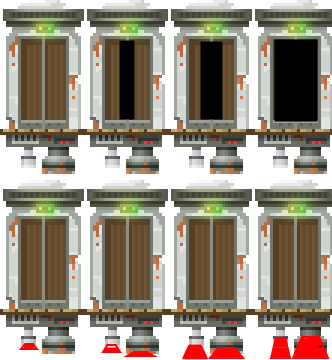
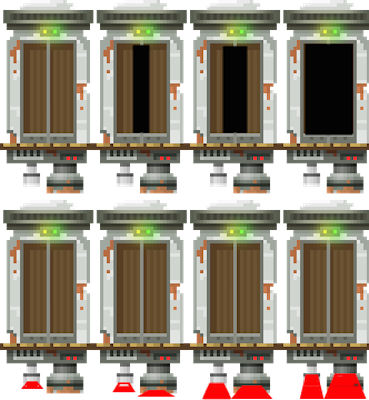
made content loader
made building sprite and changed elevator logic to move to nearest floor

diff --git a/MyFirstGame/MyFirstGame.Shared/Sprites/Elevator.cs b/MyFirstGame/MyFirstGame.Shared/Sprites/Elevator.cs
@@ -12,7 +12,7 @@ namespace MyFirstGame.Sprites
     /// <summary>
     /// Initializes a test animated sprite
     /// </summary>
-    public class TestAnimatedSprite : BaseAnimatedSprite
+    public class Elevator : BaseAnimatedSprite
     {
         /// <summary>
         /// Animation names
@@ -34,25 +34,34 @@ namespace MyFirstGame.Sprites
 
         public float deacceleratePerSecond = 0.95f;
 
-        public float maxSpeed = 2;
+		public float acceleration = 3;
+
+		public float maxSpeed = 10;
 
         public float cutOff = 0.2f;
+
+		public Keys currentKey;
+
+		//closest floor in moving direction
+		public float destinationY;
+
+		public Building currentBuilding;
 
         /// <summary>
         /// Initializes a new instance of the test animated sprite
         /// </summary>
-        public TestAnimatedSprite():
-            base(CurrentGame.content.Load<Texture2D>("Images\\testelevator.png"),
+        public Elevator():
+		base(ContentLoader.GetTexture("testelevator.png"),
             //new Vector2(CurrentGame.graphics.GraphicsDevice.Viewport.TitleSafeArea.X, CurrentGame.graphics.GraphicsDevice.Viewport.TitleSafeArea.Y + CurrentGame.graphics.GraphicsDevice.Viewport.TitleSafeArea.Height / 2),
             new Vector2(200, 200),
             4, 2)
         {
             //this.addAnimation(0, 0, 7, 0, 0.1f, AnimationNames.Default, true);
             this.addAnimation(0, 0, 0, 0, 1f, AnimationNames.Still);
-            this.addAnimation(0, 0, 3, 0, 0.2f, AnimationNames.Opening, false, false);
-            this.addAnimation(3, 0, 0, 0, 0.2f, AnimationNames.Closing, false, false);
+            this.addAnimation(0, 0, 3, 0, 0.1f, AnimationNames.Opening, false, false);
+            this.addAnimation(3, 0, 0, 0, 0.1f, AnimationNames.Closing, false, false);
             this.addAnimation(3, 0, 3, 0, 1f, AnimationNames.Opened);
-            this.addAnimation(0, 1, 3, 1, 0.15f, AnimationNames.Accelerating, false, false);
+            this.addAnimation(0, 1, 3, 1, 0.1f, AnimationNames.Accelerating, false, false);
             this.addAnimation(3, 1, 0, 1, 0.15f, AnimationNames.Deaccelerating, false, false);
             this.addAnimation(3, 1, 3, 1, 0.15f, AnimationNames.Moving);
             this.currentAnimation = this.animations[AnimationNames.Still];
@@ -105,9 +114,10 @@ namespace MyFirstGame.Sprites
 
             if (InputState.IsKeyDown(Keys.Up))
             {
+				currentKey = Keys.Up;
                 if (this.state == AnimationNames.Accelerating)
                 {
-                    this.currentSpeed = this.currentSpeed + (float)gameTime.ElapsedGameTime.TotalSeconds;
+					this.currentSpeed = this.currentSpeed + (float)gameTime.ElapsedGameTime.TotalSeconds*acceleration;
                     if (this.currentSpeed > this.maxSpeed)
                         this.currentSpeed = this.maxSpeed;
                 }
@@ -127,9 +137,10 @@ namespace MyFirstGame.Sprites
 
             if (InputState.IsKeyDown(Keys.Down))
             {
+				currentKey = Keys.Down;
                 if (this.state == AnimationNames.Accelerating)
                 {
-                    this.currentSpeed = this.currentSpeed - (float)gameTime.ElapsedGameTime.TotalSeconds;
+					this.currentSpeed = this.currentSpeed - (float)gameTime.ElapsedGameTime.TotalSeconds*acceleration;
                     if (this.currentSpeed < -this.maxSpeed)
                         this.currentSpeed = -this.maxSpeed;
                 }
@@ -146,24 +157,46 @@ namespace MyFirstGame.Sprites
                     this.SetAnimation(AnimationNames.Accelerating);
                 }
             }
-
+			Console.WriteLine (this.state);
 			if (InputState.AreKeysUp(Keys.Up, Keys.Down))
             {
-                this.currentSpeed = this.currentSpeed * this.deacceleratePerSecond;
-                if ((this.currentSpeed < this.cutOff && this.currentSpeed > 0) || (this.currentSpeed > -this.cutOff && this.currentSpeed < 0))
-                    this.currentSpeed = 0;
-
+                
                 if (this.state == AnimationNames.Accelerating || this.state == AnimationNames.Moving)
                 {
                     this.SetAnimation(AnimationNames.Deaccelerating);
-                    this.state = AnimationNames.Deaccelerating;
+					if (this.currentSpeed != 0) {
+						float closestFloor = float.MaxValue, smallestDist = float.MaxValue;
+						for (int i = 0; i < currentBuilding.floors.Length; i++) {
+							if (Math.Sign (currentBuilding.floors [i] - position.Y) == -1 *Math.Sign (currentSpeed) &&
+								Math.Abs (currentBuilding.floors [i] - position.Y) < smallestDist) {
+								smallestDist = Math.Abs (currentBuilding.floors [i] - position.Y);
+								closestFloor = currentBuilding.floors [i];
+							}
+						}
+						destinationY = closestFloor;
+					}
+					this.currentSpeed = 0;
+					this.position.Y += Math.Min((destinationY - this.position.Y) * (float)gameTime.ElapsedGameTime.TotalSeconds*2.5f, maxSpeed);
+					if (Math.Abs (destinationY - this.position.Y) < 5) {
+						this.position.Y = destinationY;
+						this.state = AnimationNames.Deaccelerating;
+					}
+                    
                 }
-                if (this.currentSpeed == 0 && this.state == AnimationNames.Deaccelerating && this.currentAnimation.isFinished)
-                {
-                    this.SetAnimation(AnimationNames.Opening);
-                    this.state = AnimationNames.Opening;
-                }
+             
             }
+
+			if (this.state == AnimationNames.Deaccelerating) {
+				this.currentSpeed = this.currentSpeed * this.deacceleratePerSecond;
+				if ((this.currentSpeed < this.cutOff && this.currentSpeed > 0) || (this.currentSpeed > -this.cutOff && this.currentSpeed < 0))
+					this.currentSpeed = 0;
+			}
+
+			if (this.currentSpeed == 0 && this.state == AnimationNames.Deaccelerating && this.currentAnimation.isFinished)
+			{
+				this.SetAnimation(AnimationNames.Opening);
+				this.state = AnimationNames.Opening;
+			}
 
             if (this.state == AnimationNames.Closing && this.currentAnimation.isFinished)
             {

diff --git a/MyFirstGame/MyFirstGame.Shared/Core/ContentLoader.cs b/MyFirstGame/MyFirstGame.Shared/Core/ContentLoader.cs
@@ -1,0 +1,69 @@
+using Microsoft.Xna.Framework.Content;
+using Microsoft.Xna.Framework.Graphics;
+using System;
+using System.Collections.Generic;
+using System.Linq;
+using System.Text;
+using Microsoft.Xna.Framework.Audio;
+
+
+namespace MyFirstGame
+{
+	class ContentLoader
+	{
+		public static ContentManager content;
+		public static Dictionary<string, Texture2D> texturePool = new Dictionary<string, Texture2D>();
+		public static Dictionary<string, SoundEffect> soundEffectPool = new Dictionary<string, SoundEffect>();
+
+
+		// Loads and returns texture if not in dictionary; otherwise, returns already loaded texture
+		public static Texture2D GetTexture(string assetName)
+		{
+			if (texturePool.Keys.Contains(assetName))
+			{
+				return texturePool[assetName];
+			}
+			Texture2D texture;
+			try
+			{
+				texture = content.Load<Texture2D>("Images/" + assetName);
+			}
+			catch (Exception e)
+			{
+				Console.WriteLine(e.Message);
+				return null;
+			}
+			texturePool[assetName] = texture;
+			return texture;
+		}
+
+		// Loads and returns texture if not in dictionary; otherwise, returns already loaded texture
+		public static SoundEffect GetSoundEffect(string assetName)
+		{
+			if (soundEffectPool.Keys.Contains(assetName))
+			{
+				return soundEffectPool[assetName];
+			}
+			SoundEffect soundEffect;
+			try
+			{
+				soundEffect = content.Load<SoundEffect>("Sounds/" + assetName);
+			}
+			catch (Exception e)
+			{
+				Console.WriteLine(e.Message);
+				return null;
+			}
+			soundEffectPool[assetName] = soundEffect;
+			return soundEffect;
+		}
+
+		public static SpriteFont LoadFont(string assetName)
+		{
+			return content.Load<SpriteFont>(assetName);
+
+		}
+
+
+	}
+}

diff --git a/MyFirstGame/MyFirstGame.Shared/Screens/Testing/TestScreen.cs b/MyFirstGame/MyFirstGame.Shared/Screens/Testing/TestScreen.cs
@@ -21,14 +21,20 @@ namespace MyFirstGame.Screens
             public const string Hero = "hero";
         }
 
+
+		Elevator elevator;
         /// <summary>
         /// Initializes the test screen
         /// </summary>
         /// <param name="game">Our main game class</param>
         public TestScreen(): base()
         {
+			elevator = new Elevator ();
+			Building building = new Building ();
             //this.addSprite(new TestSprite(game), Special.Hero);
-            this.addSprite(new TestAnimatedSprite(), Special.Hero);
+            this.addSprite(elevator, Special.Hero);
+			this.addSprite (building);
+			elevator.currentBuilding = building;
             //this.addDecorator(new TestCameraDecorator(this));
         }
 
@@ -57,7 +63,14 @@ namespace MyFirstGame.Screens
             {
                 this.reservedSprite[Special.Hero].position.Y += (float)gameTime.ElapsedGameTime.TotalSeconds * 100;
             }
-		
+
+
+			if (elevator.position.Y < 0) {
+				elevator.position.Y = 0;
+			}
+			if (elevator.position.Y + elevator.texture.Height / elevator.numberOfRows > CurrentGame.graphics.GraphicsDevice.Viewport.Height) {
+				elevator.position.Y = CurrentGame.graphics.GraphicsDevice.Viewport.Height - elevator.texture.Height / elevator.numberOfRows;
+			}
         }
     }
 }

diff --git a/MyFirstGame/MyFirstGame.Shared/Core/InputState.cs b/MyFirstGame/MyFirstGame.Shared/Core/InputState.cs
@@ -66,6 +66,33 @@ namespace MyFirstGame
 
 
 		/// <summary>
+		/// Checks if any one of a number of keys are currently down
+		/// </summary>
+		/// <param name="keys">The keys we want to check</param>
+		/// <returns>True if any key is down, false otherwise</returns>
+		public static bool AnyKeysDown(params Keys[] keys) {
+			foreach (Keys key in keys) {
+				if (IsKeyDown(key))
+					return true;
+			}
+			return false;
+		}
+
+		/// <summary>
+		/// Checks if any one number of keys are currently up
+		/// </summary>
+		/// <param name="keys">The keys we want to check</param>
+		/// <returns>True if any key is  up, false otherwise</returns>
+		public static bool AnyKeysUp(params Keys[] keys) {
+			foreach (Keys key in keys) {
+				if (!IsKeyDown(key))
+					return true;
+			}
+			return false;
+		}
+
+
+		/// <summary>
 		/// Checks if a number of keys have just been pressed in this update cycle
 		/// </summary>
 		/// <param name="keys">The keys we want to check</param>

diff --git a/MyFirstGame/MyFirstGame.Shared/Core/CurrentGame.cs b/MyFirstGame/MyFirstGame.Shared/Core/CurrentGame.cs
@@ -15,9 +15,15 @@ namespace MyFirstGame
         public static GameRunner game;
 
         /// <summary>
-        /// Graphics device
+        /// Graphics device manager
         /// </summary>
         public static GraphicsDeviceManager graphics;
+
+
+		/// <summary>
+		/// Graphics device 
+		/// </summary>
+		public static GraphicsDevice graphicsDevice;
 
         /// <summary>
         /// Spritebatch to draw sprites on
@@ -27,6 +33,14 @@ namespace MyFirstGame
         /// <summary>
         /// Content manager of game
         /// </summary>
-        public static ContentManager content;
+        public static ContentManager content;	
+
+
+		public static float timeScale = 1;
+
+		public static float GetDelta(GameTime gameTime)
+		{
+			return (float) gameTime.ElapsedGameTime.TotalSeconds*timeScale;
+		}
     }
 }

diff --git a/MyFirstGame/MyFirstGame.Shared/Core/Game.Initialize.cs b/MyFirstGame/MyFirstGame.Shared/Core/Game.Initialize.cs
@@ -39,10 +39,16 @@ namespace MyFirstGame
             // Initialize current game's static variables for graphics
             CurrentGame.game = this;
             CurrentGame.graphics = new GraphicsDeviceManager(this);
-
+			CurrentGame.graphicsDevice = GraphicsDevice;
             // Initialize root directory of content
             Content.RootDirectory = "Content";
             CurrentGame.content = Content;
+			ContentLoader.content = Content;
+			CurrentGame.graphics.PreferredBackBufferWidth = 800;
+			CurrentGame.graphics.PreferredBackBufferHeight = 600;
+
+
+			
         }
 
         /// <summary>

diff --git a/MyFirstGame/MyFirstGame.Shared/Screens/BaseScreen.cs b/MyFirstGame/MyFirstGame.Shared/Screens/BaseScreen.cs
@@ -139,7 +139,7 @@ namespace MyFirstGame.Screens
         }
 
         /// <summary>
-        /// Because it's just nicer to do this than call addLast
+        /// Because it's just nicer to do this than call add
         /// </summary>
         /// <param name="decorator">Decorator to add</param>
         /// <returns>True all the time</returns>

diff --git a/MyFirstGame/MyFirstGame.Shared/Sprites/Building.cs b/MyFirstGame/MyFirstGame.Shared/Sprites/Building.cs
@@ -1,0 +1,17 @@
+using System;
+using MyFirstGame.Sprites;
+using Microsoft.Xna.Framework;
+
+namespace MyFirstGame
+{
+	public class Building:BaseSprite
+	{
+		public float[] floors = {0, 200, 400};
+		public Building (): base(ContentLoader.GetTexture("building.png"), new Vector2(300, 0))
+		{
+			
+		}
+
+	}
+}
+
